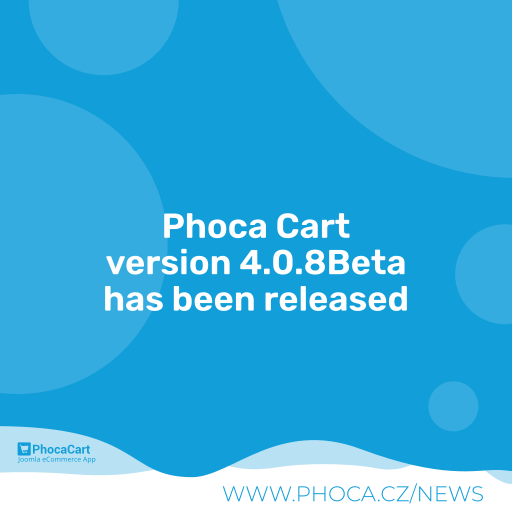
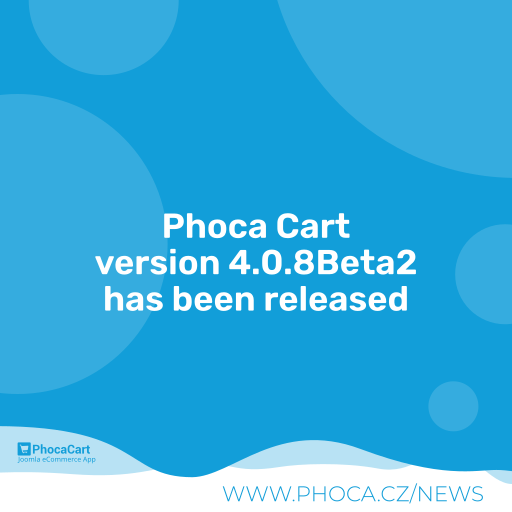
4.0.8Beta2

Changed region(s): [[0.1875, 0.4688, 0.8125, 0.5625]]

diff --git a/media/js/phoca/jquery.phocawindowpopup.js b/media/js/phoca/jquery.phocawindowpopup.js
@@ -7,10 +7,10 @@
  * Licensed under the MIT license
  */
 function phWindowPopup(url, name, rW, rH) {
-	var w 		= screen.width / rW;
-	var h 		= screen.height / rH;
-	var params 	= 'width='+w+', height='+h+', resizable=yes, scrollbars=yes, menubar=no, status=no, location=no, toolbar=no';
-	phWindow 	= window.open(url, name, params);
+	let w 		= screen.width / rW;
+	let h 		= screen.height / rH;
+	let params 	= 'width='+w+', height='+h+', resizable=yes, scrollbars=yes, menubar=no, status=no, location=no, toolbar=no';
+	let phWindow = window.open(url, name, params);
 
 	if(window.focus) {
 		phWindow.focus();

diff --git a/media/js/phoca/jquery.phocawindowpopup.min.js b/media/js/phoca/jquery.phocawindowpopup.min.js
@@ -1,1 +1,1 @@
-"use strict";function phWindowPopup(o,n,e,i){e=screen.width/e,i=screen.height/i;return phWindow=window.open(o,n,"width="+e+", height="+i+", resizable=yes, scrollbars=yes, menubar=no, status=no, location=no, toolbar=no"),window.focus&&phWindow.focus(),!1}
+"use strict";function phWindowPopup(o,n,e,s){e=screen.width/e,s=screen.height/s,s=window.open(o,n,"width="+e+", height="+s+", resizable=yes, scrollbars=yes, menubar=no, status=no, location=no, toolbar=no");return window.focus&&s.focus(),!1}

diff --git a/site/views/item/tmpl/default.php b/site/views/item/tmpl/default.php
@@ -277,6 +277,10 @@ if (!empty($x) && isset($x->id) && (int)$x->id > 0) {
 	}
 
 
+	// :L: ADD TO CART
+	$addToCartHidden = 0;// Button can be hidden based on price This variable is used for displaying Ask Question
+
+
 
 	// STOCK ===================================================
 	// Set stock: product, variations, or advanced stock status
@@ -291,6 +295,7 @@ if (!empty($x) && isset($x->id) && (int)$x->id > 0) {
 	if ($this->t['hide_add_to_cart_stock'] == 1 && (int)$stock < 1) {
 		$class_btn 					= 'ph-visibility-hidden';
 		$class_icon					= 'ph-display-none';
+		$addToCartHidden 			= 1;// used for displaying Ask Question
 	}
 
 	if ($this->t['display_stock_status'] == 1 || $this->t['display_stock_status'] == 3) {
@@ -401,8 +406,7 @@ if (!empty($x) && isset($x->id) && (int)$x->id > 0) {
 	echo $layoutAB->render($d);
 
 
-	// :L: ADD TO CART
-	$addToCartHidden = 0;// Button can be hidden based on price
+
 
 	if ($x->type == 3) {
 		// PRODUCTTYPE - price on demand product cannot be added to cart
@@ -549,6 +553,7 @@ if (!empty($x) && isset($x->id) && (int)$x->id > 0) {
 	}
 
 	// ASK A QUESTION
+
 	if (((int)$this->t['item_askquestion'] == 1) || ($this->t['item_askquestion'] == 2 && ((int)$this->t['item_addtocart'] == 0 || $addToCartHidden != 0))) {
 
 		$d					= array();

diff --git a/admin/src/Extension/PhocaCartComponent.php b/admin/src/Extension/PhocaCartComponent.php
@@ -43,6 +43,18 @@ class PhocaCartComponent extends LegacyComponent implements CategoryServiceInter
    */
   public function getCategory(array $options = [], $section = ''): CategoryInterface
   {
+
+        // Hide wrong information about Phoca Cart categories in custom field list
+        $app    = Factory::getApplication();
+        $option = $app->input->get('option', '', 'string');
+        $context   = $app->input->get('context', '', 'string');
+        if ($option == 'com_fields' && $context == 'com_phocacart.phocacartitem') {
+            $document = $app->getDocument();
+            $document->addCustomTag('<style type="text/css"> table#fieldList tr th[scope=row] div div:nth-child(3) { display:none } </style>');
+        }
+
+
+
     return new class() implements CategoryInterface {
       public function getExtension(): string
       {
@@ -56,6 +68,8 @@ class PhocaCartComponent extends LegacyComponent implements CategoryServiceInter
         $node->addChild(new CategoryNode());
         return $node;
       }
+
+
     };
   }
 

diff --git a/site/layouts/order.php b/site/layouts/order.php
@@ -827,7 +827,9 @@ if ($tax_calculation > 0) {
 if (!empty($d['total'])) {
 	foreach($d['total'] as $k => $v) {
 
-		if($v->amount == 0 && $v->amount_currency == 0 && $v->type != 'brutto') {
+		// display or not display shipping and payment methods with zero amount
+		//if($v->amount == 0 && $v->amount_currency == 0 && $v->type != 'brutto' && $v->type != 'sbrutto' && $v->type != 'pbrutto') {
+			if($v->amount == 0 && $v->amount_currency == 0 && $v->type != 'brutto') {
 			// Don't display coupon if null
 
 		} else if ($v->type == 'netto') {

diff --git a/README.MD b/README.MD
@@ -122,7 +122,7 @@ Phoca Cart is e-commerce extension - powerful shopping cart for Joomla! CMS. Pho
 
 ## Version (Joomla! 4.x)
 
-4.0.8Beta
+4.0.8Beta2
 
 
 
